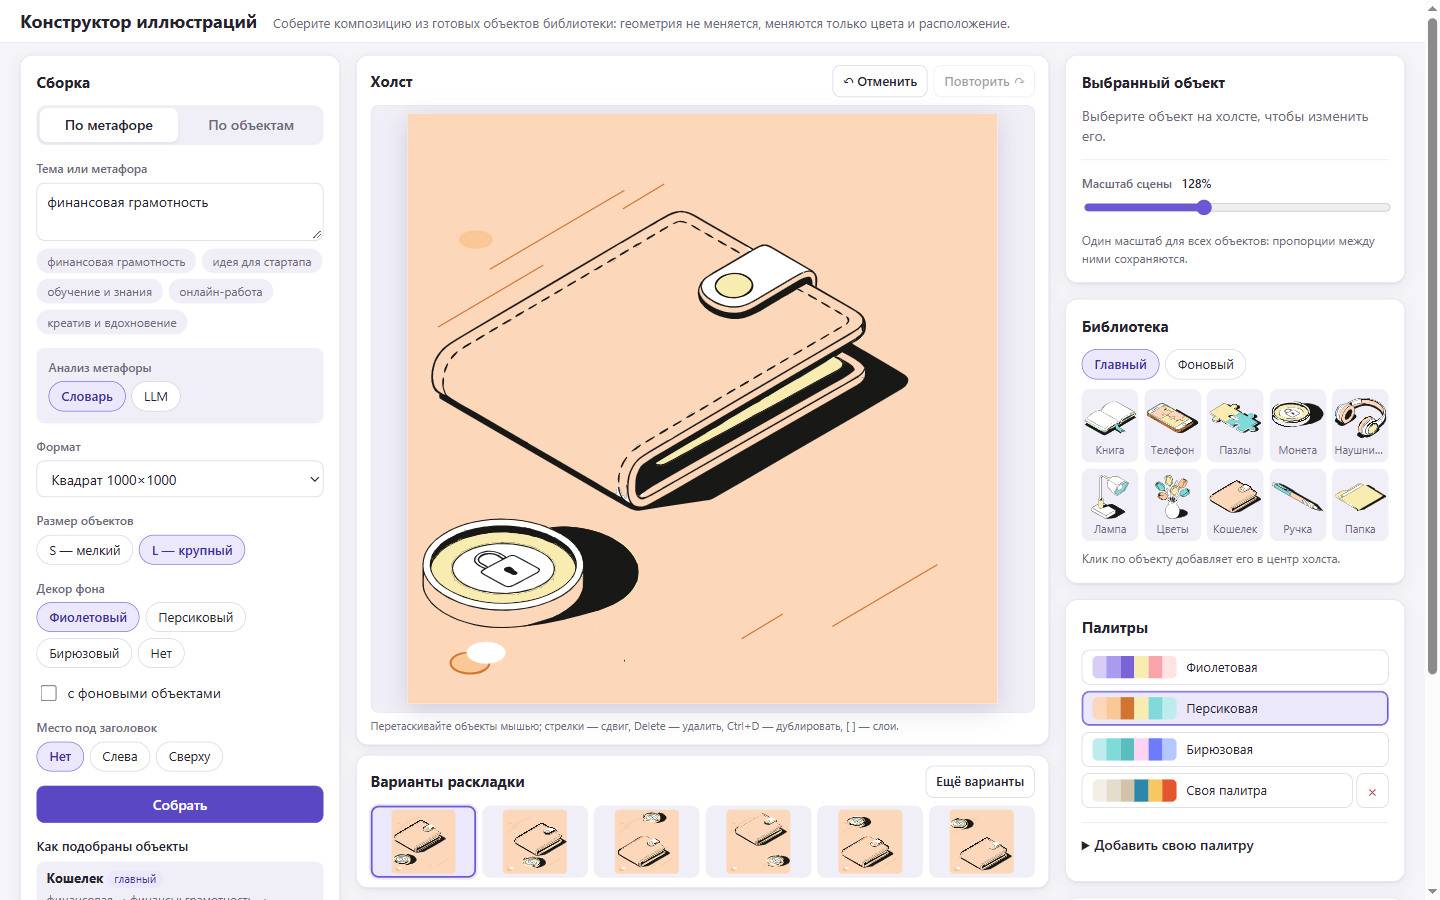
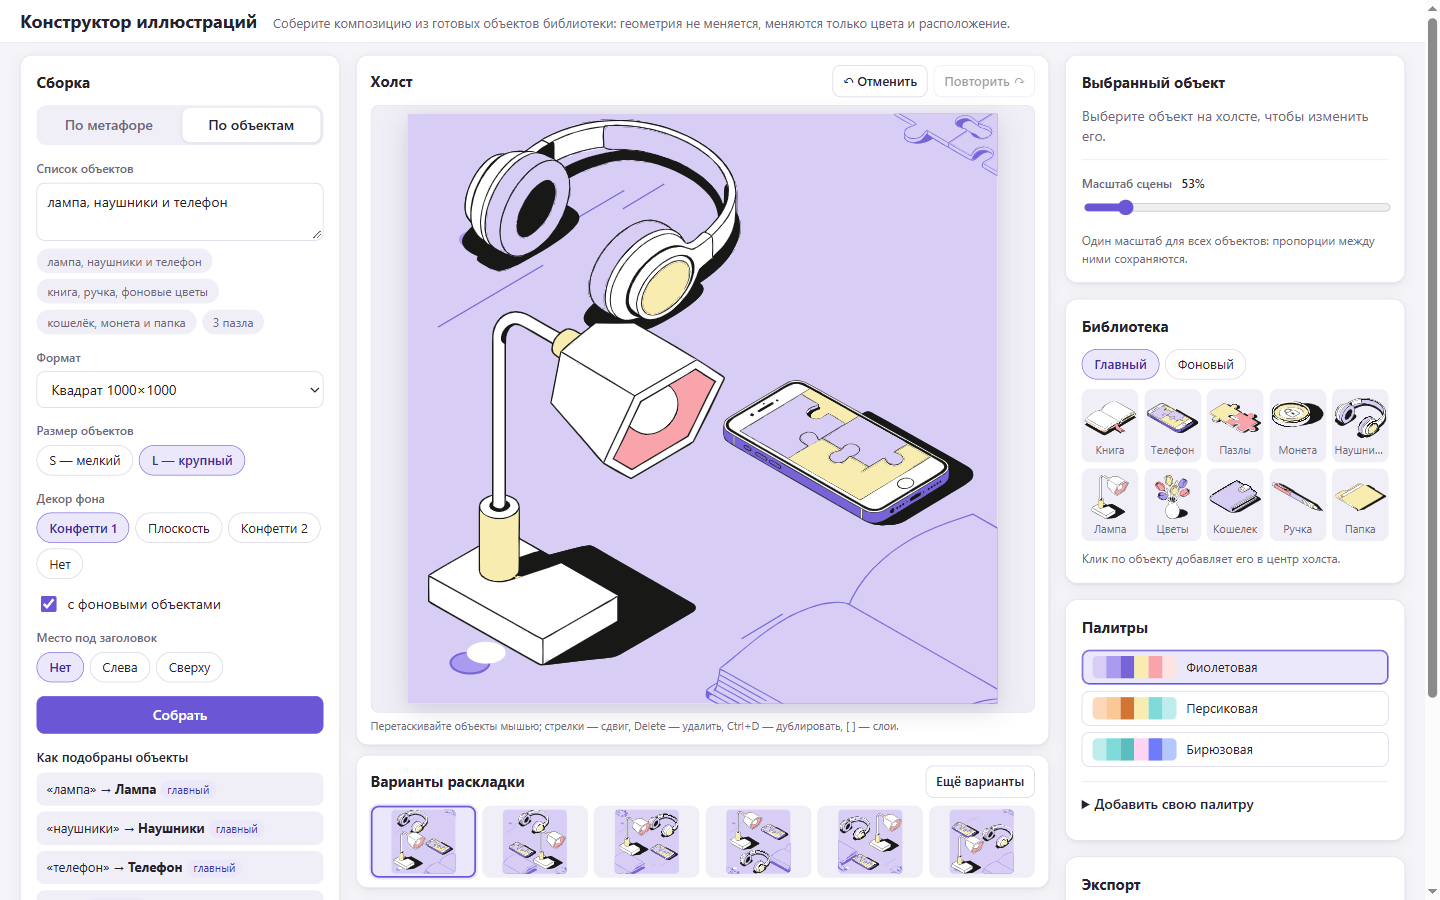
Step 4: Pages verified, new screenshot, demo script, README fixes

diff --git a/docs/PROMPT_LOG.md b/docs/PROMPT_LOG.md
@@ -171,3 +171,34 @@ README.md, index.html, css/app.css, src/app.js, src/analyzers.js (новый), t
 ### Проверки
 - node tests/run-tests.js → 45 passed; editor-smoke → 13 passed; analyzers-tests → 17 passed.
 - Playwright (127.0.0.1:8765): полоса вариантов видна (1440×900: низ 888 ≤ 900; 1366×768: низ 756 ≤ 768, без прокрутки, 6 вариантов); схема из «Палитр» перекрашивает сцену, превью и библиотеку; LLM без ключа → откат на словарь с пометкой; «зззз кккк» → подсказка, 5 примеров, 10 чипов, клик дописывает слово. Консоль чистая (одна ошибка 404 favicon.ico только при первом заходе в сессию, до подхвата data:URI).
+
+## 2026-11-21 — Шаг 4
+
+### Промпт (дословно)
+Шаг 4. (правила: см. CLAUDE.md) GitHub Pages я включил (main, / root).
+
+а) Названия декоров фона: сейчас «Фиолетовый / Персиковый / Бирюзовый», но декор перекрашивается под выбранную схему, и «Фиолетовый» при персиковой схеме сбивает с толку. Назови их по форме (например «Конфетти», «Плоскость с линиями»). Сначала проверь через node, отличается ли геометрия декоров violet и teal: если совпадает — оставь в интерфейсе один из них. Правь только подписи и список в интерфейсе (и catalog.json, если имена берутся оттуда), геометрию не трогать. README поправь, если там старые названия.
+
+б) Проверка опубликованного сервиса (haiku, Playwright, правило 7) по https://more2manov.github.io/desigh_test/ : страница открывается, нет ошибок в консоли, библиотека загрузилась, стартовая композиция есть; сценарий 1 и сценарий 2 собираются; «Скачать SVG» работает; время до первой композиции (примерно). Если что-то не работает только на Pages (пути, регистр имён файлов, кеш) — исправь и проверь снова после push (Pages обновляется 1–2 минуты).
+
+в) Скриншот для README заново в чистом состоянии (новый контекст браузера / очищенный localStorage, без своих палитр), 1440×900, с насыщенной композицией: например, вкладка «По объектам», «лампа, наушники и телефон», «с фоновыми объектами», фиолетовая схема. Сохрани в docs/screenshot.png.
+
+г) Финальное ревью как у проверяющего (sonnet-субагент): пройти по требованиям задания из HANDOFF.md (раздел «Задание») пункт за пунктом и проверить по коду и README, что каждое выполнено, плюс правила макета. Вернуть таблицу «требование — где выполнено — замечание». Исправь только явные недочёты (мелкие баги, неточности в README). Если найдено что-то крупное — не чини, напиши мне.
+
+д) docs/DEMO.md — сценарий короткого демо-видео на 60–90 секунд, которое я запишу сам (Win+Alt+R или OBS): по шагам, что нажимать и что говорить одной короткой фразой на каждом шаге. Показать: открытие по ссылке → сценарий 1 (метафора, объяснение подбора, 6 вариантов, выбор варианта) → сценарий 2 (список объектов с фоновым) → правка на холсте (перетащить, повернуть, дублировать, слой, главный↔фоновый, сменить цвета) → смена схемы и своя палитра → S↔L и формат → экспорт SVG и открытие его в Figma (перетаскиванием файла в Figma), где видны отдельные слои объектов. В README добавь место под ссылку на видео (строка «Демо: ссылка будет добавлена»).
+
+е) Обнови docs, коммит, push, отчёт и остановись.
+
+### Итог
+- Декоры violet и teal — разная геометрия (по 8 элементов, общих path нет), оставлены оба. Кнопки: «Конфетти 1 / Плоскость / Конфетти 2 / Нет» (title с полным названием); catalog.json уже с именами по форме — не менялся. README обновлён.
+- Pages: страница, библиотека, стартовая композиция, сценарии 1 и 2, «Скачать SVG» — всё работает; ошибок и 404 с Pages нет; загрузка ~0,8 с (холодная), композиция ~1 с. Единственная особенность Pages — кеш (~30–60 с после push).
+- docs/screenshot.png снят заново на Pages в чистом контексте.
+- Ревью по требованиям: все пункты и 4 правила выполнены, крупных проблем нет. В README добавлено уточнение про роль paper в своей палитре из 8 цветов.
+- docs/DEMO.md (12 шагов), строка «Демо» в README.
+
+### Изменённые файлы
+index.html, README.md, docs/DEMO.md (новый), docs/screenshot.png, docs/PROGRESS.md, docs/PROMPT_LOG.md
+
+### Проверки
+- node tests/run-tests.js → 45 passed; editor-smoke → 13; analyzers-tests → 17.
+- Playwright (haiku) по https://more2manov.github.io/desigh_test/ — 6/6 PASS.

diff --git a/docs/PROGRESS.md b/docs/PROGRESS.md
@@ -17,10 +17,12 @@
 - index.html, css/app.css, src/app.js — интерфейс: три колонки (сборка — холст+6 вариантов — свойства/библиотека/палитры/экспорт), складываются <1000px; свои палитры в localStorage 'ic.customSchemes'; проект JSON {app, version:1, scene, customSchemes}; скачивание через claude.use('downloads') или <a download>; сообщения — IC.app.notify. При старте собирается «финансовая грамотность» (всегда словарём). Высота холста по окну (fitCanvas), полоса вариантов #strip-card под холстом; схема — только справа (#schemes); блок «Анализ метафоры» (#analysis-block: Словарь/LLM, ключ, модель, «запомнить» — ключ в localStorage 'ic.apiKey' только по галке); пустой результат → #explain-hint с примерами и чипами объектов; favicon data:URI.
 - tests/run-tests.js — 45 тестов (вкл. 30 метафор с ожидаемыми объектами (вкл. плотность og/banner, фон ≥30% по осям, зона заголовка); tests/editor-smoke.js — 13 тестов editor на заглушке DOM; tests/load-ic.js — загрузка src/*.js в vm.
 - tools/render-examples.js — examples/*.svg + *.png (finance-literacy, startup-idea, lamp-headphones-phone).
-- docs/screenshot.png — снимок интерфейса 1440×900 (в README).
+- docs/screenshot.png — снимок интерфейса 1440×900 (в README), снят на Pages в чистом состоянии: «По объектам», лампа/наушники/телефон + фон, фиолетовая схема.
+- docs/DEMO.md — сценарий демо-видео 60–90 с (12 шагов: действие + фраза). В README строка «Демо: ссылка будет добавлена».
 - README.md — описание для проверяющих: возможности, архитектура, правила, добавление объекта, AI-инструменты, примеры, тесты, ограничения.
 
 ## Решения
+- Декоры в UI названы по форме: «Конфетти 1» (violet), «Плоскость» (peach), «Конфетти 2» (teal), «Нет»; violet и teal — разная геометрия (общих path нет), оставлены оба. catalog.json не менялся (там уже имена по форме).
 - Чистый JS без сборки, <script src> + window.IC; порядок скриптов — docs/INTERFACE.md.
 - Главный объект = первый в main; выход за край ≤3%, у остальных главных ≤20%. Видимость по bbox, ужатым на 12%, сетка 10×10.
 - uid в layout детерминированные (s<seed>-n). Масштаб сцены в UI — проценты scale·base/1000 (20–300%).
@@ -32,11 +34,12 @@
 ## Известные проблемы
 - bbox вместо силуэтов: пустоты могут выглядеть крупными.
 - banner/top: занятость ~0.61 (ограничена высотой области).
-- GitHub Pages не включён: gh CLI не установлен; пользователь включает вручную (Settings → Pages, main, /). Ссылка в README: https://more2manov.github.io/desigh_test/ — проверить после включения.
+- GitHub Pages включён (main, /): https://more2manov.github.io/desigh_test/ — проверен в шаге 4, всё работает; после push обновление ~30–60 с (кеш, помогает ?v=N).
 - LLM-режим проверен только моками в node и откатом в браузере (реальные claude.ai и API не вызывались).
 - library/*.svg при пересборке пишутся с CRLF — после py tools/split_figma_export.py делать git checkout -- library, если содержимое не менялось.
 - variants не меняет colorShift (у всех 0).
 - claude.use('downloads') проверен только по коду (работает лишь на claude.ai).
 
 ## Дальше
-- Ждём шаг 4 (после включения Pages — проверить опубликованную ссылку).
+- Пользователь записывает демо по docs/DEMO.md и вставляет ссылку в README.
+- Ждём следующий шаг.

diff --git a/docs/DEMO.md b/docs/DEMO.md
@@ -1,0 +1,20 @@
+# Сценарий демо-видео (60–90 с)
+
+Запись: Win+Alt+R (Xbox Game Bar) или OBS, окно браузера 1440×900. Перед записью: открыть ссылку в новом окне инкогнито (чистый localStorage), подготовить Figma с пустым файлом во второй вкладке.
+
+| # | ~сек | Что делать | Что сказать |
+|---|------|-----------|-------------|
+| 1 | 0–5 | Открыть https://more2manov.github.io/desigh_test/ — стартовая композиция уже на холсте. | «Конструктор иллюстраций из объектов библиотеки, открывается по ссылке». |
+| 2 | 5–15 | Вкладка «По метафоре», ввести «стартап и новая идея», «Собрать». | «Сценарий первый: пишу метафору — сервис сам подбирает объекты». |
+| 3 | 15–20 | Показать курсором блок объяснения под кнопкой. | «Здесь видно, почему выбраны именно эти объекты». |
+| 4 | 20–27 | Провести по полосе из 6 вариантов под холстом, кликнуть один. | «Шесть вариантов компоновки — выбираю понравившийся». |
+| 5 | 27–35 | Вкладка «По объектам», ввести «лампа, наушники и телефон», галка «с фоновыми объектами», «Собрать». | «Сценарий второй: перечисляю объекты, фоновые добавляются сами». |
+| 6 | 35–41 | Перетащить объект; потянуть ручку поворота (с Shift — шагом 15°). | «На холсте всё правится: перемещение, поворот». |
+| 7 | 41–47 | Справа «Дублировать», затем «Наверх» / «Вниз». | «Дублирую и меняю слой». |
+| 8 | 47–52 | «Главный ↔ фоновый», затем «Сменить цвета». | «Объект можно сделать фоновым и перекрасить в цвета схемы — форма не меняется». |
+| 9 | 52–60 | В «Палитрах» кликнуть другую схему; вставить 6 hex-цветов в поле, «Добавить и применить». | «Меняю цветовую схему или добавляю свою палитру». |
+| 10 | 60–67 | «Размер объектов»: S ↔ L; «Формат»: «Обложка 1200×630». | «Мелкие или крупные объекты и любой формат — сцена пересчитывается». |
+| 11 | 67–73 | «Скачать SVG». | «Экспорт — чистый векторный SVG». |
+| 12 | 73–85 | Перетащить скачанный файл в окно Figma, раскрыть слои в панели Layers. | «В Figma каждый объект — отдельный слой, можно дорабатывать дальше». |
+
+Подсказки: говорить коротко, не ждать анимаций; если уложились раньше — закончить на шаге 12. После записи вставить ссылку в README (строка «Демо»).

diff --git a/README.md b/README.md
@@ -5,6 +5,7 @@
 Веб-сервис, который собирает композиции из готовых векторных объектов (тестовое задание). Объекты не генерируются и не меняются: копируется их геометрия, меняются только цвета ролей, положение, поворот и общий масштаб сцены. Результат — SVG без растра.
 
 - Сервис: https://more2manov.github.io/desigh_test/
+- Демо: ссылка будет добавлена (сценарий записи — [docs/DEMO.md](docs/DEMO.md))
 - Репозиторий: https://github.com/more2manov/desigh_test
 - Запуск локально: двойной клик по `index.html`. Работает через `file://`, без сервера, сборки и npm-зависимостей. Интерфейс на русском.
 
